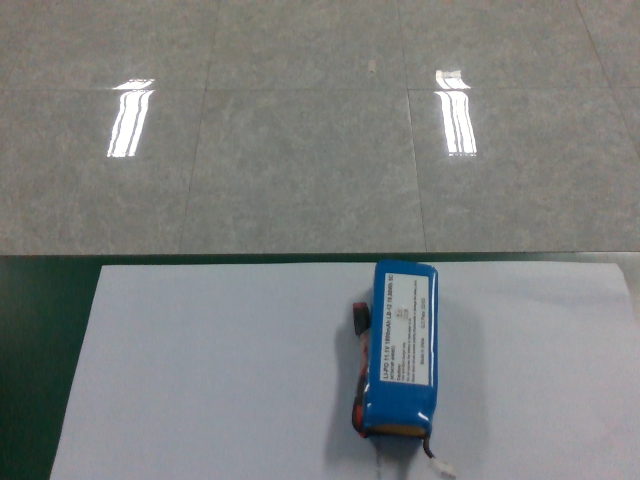
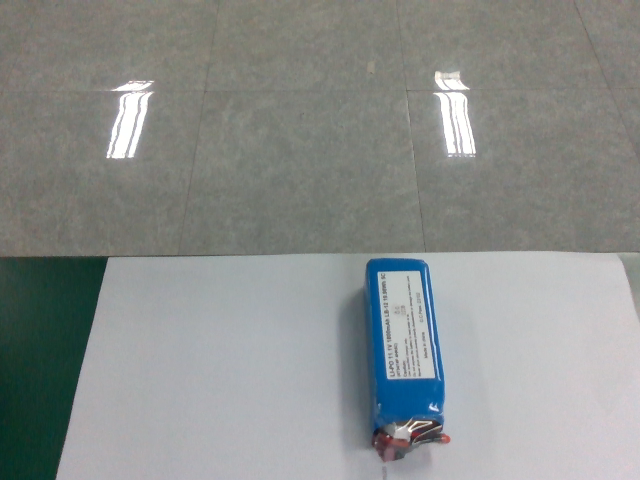
alhamdulillah rotasi grasp pose sudah

diff --git a/scripts/grasp_detect.py b/scripts/grasp_detect.py
@@ -6,11 +6,11 @@ import rospy
 import numpy as np
 import open3d as o3d
 import scipy.io as scio
+from scipy.spatial.transform import Rotation as R
 from PIL import Image as PILImage
 
 import torch
 from graspnetAPI import GraspGroup
-from graspnetAPI.grasp import Grasp
 
 from sensor_msgs.msg import Image
 from cv_bridge import CvBridge
@@ -111,55 +111,9 @@ def vis_grasps(gg, cloud):
     gg.nms()
     gg.sort_by_score()
     gg = gg[:5]
-    print(gg[0])
+    # print(gg[0])
     grippers = gg.to_open3d_geometry_list()
     o3d.visualization.draw_geometries([cloud, *grippers])
-
-def rpy_to_rotation_matrix(roll, pitch, yaw):
-    """Create a rotation matrix from roll, pitch, yaw (Z-Y-X convention)"""
-    Rx = np.array([
-        [1, 0, 0],
-        [0, np.cos(roll), -np.sin(roll)],
-        [0, np.sin(roll),  np.cos(roll)]
-    ])
-
-    Ry = np.array([
-        [np.cos(pitch), 0, np.sin(pitch)],
-        [0, 1, 0],
-        [-np.sin(pitch), 0, np.cos(pitch)]
-    ])
-
-    Rz = np.array([
-        [np.cos(yaw), -np.sin(yaw), 0],
-        [np.sin(yaw),  np.cos(yaw), 0],
-        [0, 0, 1]
-    ])
-
-    return Rz @ Ry @ Rx  # ZYX order
-
-def rotate_grasp_rotation_matrix(grasp_rotation_matrix, roll=0, pitch=0, yaw=0, local=True):
-    """
-    Rotate a 3x3 grasp rotation matrix with roll, pitch, yaw angles (in radians).
-    - If local=True: rotates in the local object frame (post-multiplication)
-    - If local=False: rotates in the world/global frame (pre-multiplication)
-    """
-    R_rpy = rpy_to_rotation_matrix(roll, pitch, yaw)
-    if local:
-        return grasp_rotation_matrix @ R_rpy
-    else:
-        return R_rpy @ grasp_rotation_matrix
-
-def update_grasp_rotation(grasp: Grasp, roll, pitch, yaw, local=True):
-    # Get original rotation matrix
-    R_orig = grasp.rotation_matrix  # shape (3, 3)
-    R_new = rotate_grasp_rotation_matrix(R_orig, roll, pitch, yaw, local=local)
-    R_flat = R_new.flatten()
-
-    # Copy original grasp array and replace the rotation part
-    new_grasp_array = grasp.grasp_array.copy()
-    new_grasp_array[:9] = R_flat  # Assuming first 9 elements are rotation
-
-    return Grasp(new_grasp_array)
 
 def main():
     rospy.init_node("grasp_detect_node", anonymous=True)
@@ -189,36 +143,40 @@ def main():
         rospy.loginfo("Performing collision detection...")
         gg = collision_detection(gg, np.array(cloud.points), voxel_size, collision_thresh)
 
+    gg.nms()
+    gg.sort_by_score()
+    
     rospy.loginfo("Visualizing grasps...")
     vis_grasps(gg, cloud)
 
-    # PERCOBAAN MEROTASI GRASPING POSE
-    gg.nms()
-    gg.sort_by_score()
-    # g = gg[0]
 
-    # print(type(gg[0]))
-    # print(dir(gg[0]))
-    print(gg[0].grasp_array.shape)  # should print (12,)
+    # PERCOBAAN MEROTASI GRASPING POSE
+
+    # gg.grasp_group_array[i, 0:4] for [score, width, height, depth]
+    # gg.grasp_group_array[i, 4:13] for flattened 3x3 rotation matrix
+    # gg.grasp_group_array[i, 13:16] for translation
+    # gg.grasp_group_array[i, 16:] for object id
 
     rospy.loginfo("Visualizing grasps..., [BEFORE rotation]")
-    # vis_grasps(gg[:1], cloud)
+    vis_grasps(gg[:1], cloud)
     print(gg[0].rotation_matrix)
 
-    # Apply a 30-degree roll
-    roll = 0
-    pitch = np.radians(90)
-    yaw = np.radians(90)
-    # Rotate
-    # gg[0].rotation_matrix = rotate_grasp_rotation_matrix(gg[0].rotation_matrix, roll, pitch, yaw, local=True)
-    # result = rotate_grasp_rotation_matrix(gg[0].rotation_matrix, roll, pitch, yaw, local=True)
-    gg.grasp_group[0] = update_grasp_rotation(gg.grasp_group[0], roll, pitch, yaw, local=True)
+    # set roll pitch yaw as target value
+    rpy = [0.0, -1.57, 1.569262]  # target orientation
+    rot_matrix = R.from_euler('xyz', rpy).as_matrix()
+    gg.grasp_group_array[0, 4:13] = rot_matrix.flatten()
+
+    # # set roll pitch yaw as addition value
+    # delta_rpy = np.radians([0, 0, 30])  # rotate 30° more in yaw
+    # delta_rot = R.from_euler('xyz', delta_rpy).as_matrix()
+    # original_rot = gg.grasp_group_array[0, 4:13].reshape(3, 3)
+    # # Apply delta rotation in local frame
+    # new_rot = delta_rot @ original_rot
+    # gg.grasp_group_array[0, 4:13] = new_rot.flatten()
 
     rospy.loginfo("Visualizing grasps..., [AFTER rotation]")
-    # vis_grasps(gg[:1], cloud)
+    vis_grasps(gg[:1], cloud)
     print(gg[0].rotation_matrix)
-    # print(result)
-
 
 if __name__ == '__main__':
     try:

diff --git a/scripts/grasp_service_server.py b/scripts/grasp_service_server.py
@@ -6,6 +6,7 @@ import rospy
 import numpy as np
 import torch
 import scipy.io as scio
+from scipy.spatial.transform import Rotation as R
 import open3d as o3d
 from PIL import Image as PILImage
 from geometry_msgs.msg import Point, Quaternion
@@ -108,12 +109,19 @@ def handle_grasp_detection(req):
 
         gg.nms()
         gg.sort_by_score()
+
+        # Rotate The Rotation Matrix (set roll pitch yaw as target value)
+        rpy = [0.0, -1.57, 1.569262]  # target orientation
+        rot_matrix = R.from_euler('xyz', rpy).as_matrix()
+        gg.grasp_group_array[0, 4:13] = rot_matrix.flatten()  # for grasp index 0 only
+
+        # vis_grasps(gg, cloud)
+        vis_grasps(gg[:1], cloud)  # only draw index 0, which sent as a response
+
+        # take only the grasp index 0
         g = gg[0]
         # print(g)
         # print(dir(g))
-
-        # vis_grasps(gg, cloud)
-        vis_grasps(gg[:1], cloud)  # only draw the first index, which sent as a response
 
         # Convert rotation matrix to quaternion
         rot_matrix = np.eye(4)
